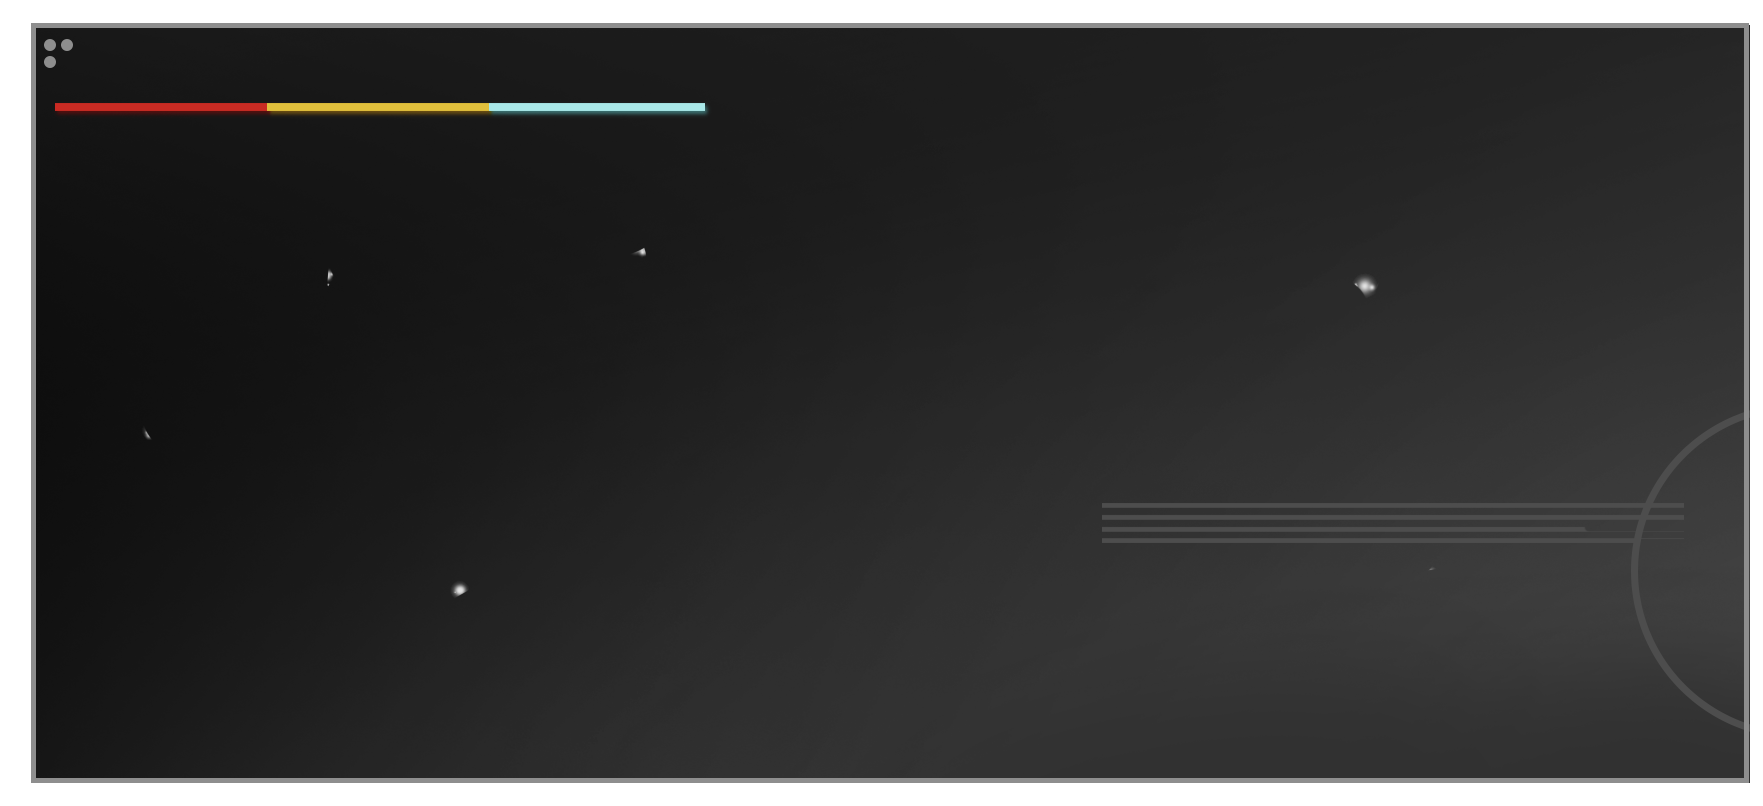
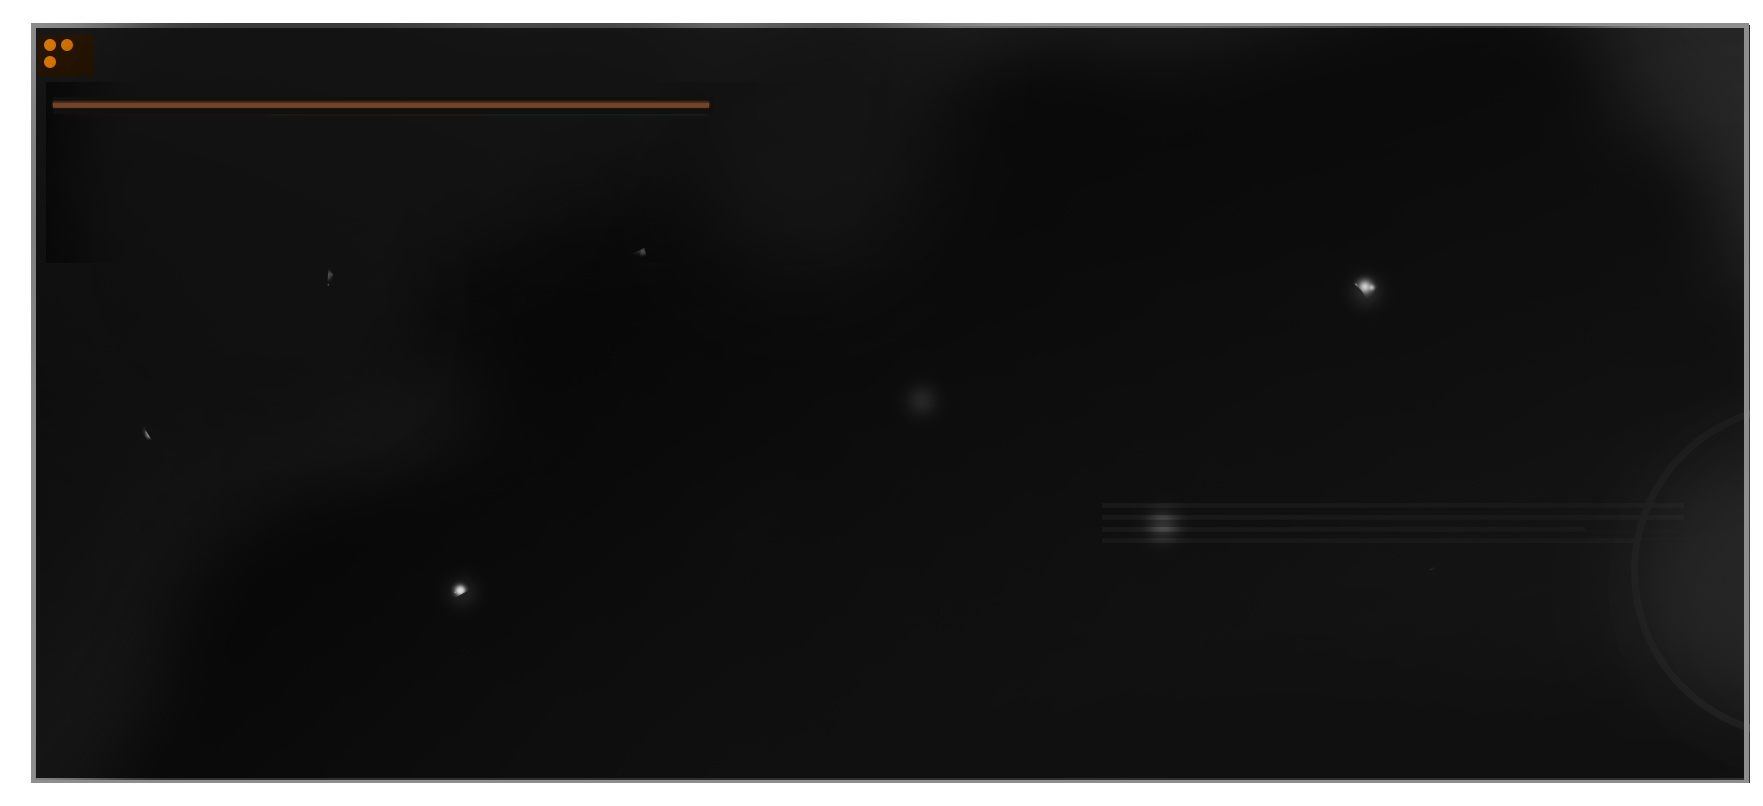
UI更新

diff --git a/src/main/java/rhinemod/patches/RhineUIPatch.java b/src/main/java/rhinemod/patches/RhineUIPatch.java
@@ -5,7 +5,6 @@ import com.badlogic.gdx.graphics.Color;
 import com.badlogic.gdx.graphics.Texture;
 import com.badlogic.gdx.graphics.g2d.SpriteBatch;
 import com.badlogic.gdx.graphics.g2d.TextureAtlas;
-import com.badlogic.gdx.math.MathUtils;
 import com.evacipated.cardcrawl.modthespire.lib.*;
 import com.megacrit.cardcrawl.cards.AbstractCard;
 import com.megacrit.cardcrawl.cards.CardGroup;
@@ -20,14 +19,18 @@ import com.megacrit.cardcrawl.helpers.Hitbox;
 import com.megacrit.cardcrawl.helpers.ImageMaster;
 import com.megacrit.cardcrawl.helpers.input.InputHelper;
 import com.megacrit.cardcrawl.map.DungeonMap;
+import com.megacrit.cardcrawl.map.LegendItem;
 import com.megacrit.cardcrawl.map.MapEdge;
 import com.megacrit.cardcrawl.map.MapRoomNode;
+import com.megacrit.cardcrawl.rewards.RewardItem;
 import com.megacrit.cardcrawl.rooms.AbstractRoom;
 import com.megacrit.cardcrawl.screens.*;
 import com.megacrit.cardcrawl.screens.mainMenu.MenuCancelButton;
 import com.megacrit.cardcrawl.screens.options.*;
 import com.megacrit.cardcrawl.ui.buttons.*;
 import com.megacrit.cardcrawl.ui.panels.*;
+import com.megacrit.cardcrawl.vfx.FlameAnimationEffect;
+import com.megacrit.cardcrawl.vfx.ObtainKeyEffect;
 import com.megacrit.cardcrawl.vfx.TintEffect;
 import javassist.CannotCompileException;
 import javassist.CtBehavior;
@@ -722,11 +725,12 @@ public class RhineUIPatch {
     @SpirePatch(clz = DungeonMap.class, method = "<ctor>")
     public static class DungeonMapPatch {
         @SpirePostfixPatch
-        public static void Postfix(DungeonMap _inst, @ByRef Texture[] ___top, @ByRef Texture[] ___mid, @ByRef Texture[] ___bot) {
+        public static void Postfix(DungeonMap _inst, @ByRef Texture[] ___top, @ByRef Texture[] ___mid, @ByRef Texture[] ___bot, @ByRef Texture[] ___blend) {
             if (RhineMod.useLoneTrail) {
                 ___top[0] = RhineImageMaster.mapTop;
                 ___mid[0] = RhineImageMaster.mapMid;
                 ___bot[0] = RhineImageMaster.mapBot;
+                ___blend[0] = RhineImageMaster.mapBlender;
             }
         }
     }
@@ -745,13 +749,14 @@ public class RhineUIPatch {
         @SpirePostfixPatch
         public static void Postfix(MapRoomNode _inst, int x, int y) {
             if (RhineMod.useLoneTrail) {
-                MapRoomNode.AVAILABLE_COLOR.r = 1.0F;
-                MapRoomNode.AVAILABLE_COLOR.g = 1.0F;
-                MapRoomNode.AVAILABLE_COLOR.b = 1.0F;
+                MapRoomNode.AVAILABLE_COLOR.r = 0.9F;
+                MapRoomNode.AVAILABLE_COLOR.g = 0.5F;
+                MapRoomNode.AVAILABLE_COLOR.b = 0.27F;
                 Color notTakenColor = ReflectionHacks.getPrivateStatic(MapRoomNode.class, "NOT_TAKEN_COLOR");
-                notTakenColor.r = 0.8F;
-                notTakenColor.g = 0.8F;
-                notTakenColor.b = 0.8F;
+                notTakenColor.r = 0.9F;
+                notTakenColor.g = 0.5F;
+                notTakenColor.b = 0.27F;
+                notTakenColor.a = 0.5F;
             }
         }
     }
@@ -811,6 +816,55 @@ public class RhineUIPatch {
             sb.draw(RhineImageMaster.mapDot, srcX - r, srcY + DungeonMapScreen.offsetY + OFFSET_Y, r, 0, width, width, 1, 1, angle - 270, 0, 0, 16, 16, false, false);
             sb.draw(RhineImageMaster.mapDot, dstX - r, dstY + DungeonMapScreen.offsetY + OFFSET_Y, r, 0, width, width, 1, 1, angle - 90, 0, 0, 16, 16, false, false);
             return SpireReturn.Return();
+        }
+    }
+
+    @SpirePatch(clz = RewardItem.class, method = SpirePatch.CONSTRUCTOR, paramtypez = {RewardItem.class, RewardItem.RewardType.class})
+    public static class RewardItemPatch {
+        public static int count = 0;
+        public static ExprEditor Instrument() {
+            return new ExprEditor() {
+                public void edit(MethodCall m) throws CannotCompileException {
+                    if (m.getClassName().equals(ImageMaster.class.getName()) && m.getMethodName().equals("loadImage")) {
+                        count++;
+                        if (count <= 2) {
+                            m.replace("if (" + RhineMod.class.getName() + ".useLoneTrail) { $1 = " + RhineImageMaster.class.getName() + ".blueKey; $_ = $proceed($$); } else { $proceed($$); }");
+                        } else {
+                            m.replace("if (" + RhineMod.class.getName() + ".useLoneTrail) { $1 = " + RhineImageMaster.class.getName() + ".greenKey; $_ = $proceed($$); } else { $proceed($$); }");
+                        }
+                    }
+                }
+            };
+        }
+    }
+
+    @SpirePatch(clz = ObtainKeyEffect.class, method = "update")
+    public static class ObtainKeyEffectPatch {
+        @SpirePrefixPatch
+        public static void Prefix(ObtainKeyEffect _inst) {
+            if (RhineMod.useLoneTrail) _inst.duration = 0.0F;
+        }
+    }
+
+    @SpirePatch(clz = FlameAnimationEffect.class, method = SpirePatch.CONSTRUCTOR)
+    public static class FlameAnimationEffectPatch {
+        @SpirePostfixPatch
+        public static void Postfix(FlameAnimationEffect _inst, Hitbox hb, @ByRef Color[] ___color) {
+            ___color[0] = new Color(0.9F, 0.5F, 0.27F, 1.0F);
+        }
+    }
+
+    @SpirePatch(clz = LegendItem.class, method = "render")
+    public static class LegendItemRenderPatch {
+        @SpirePrefixPatch
+        public static void Prefix(LegendItem _inst, SpriteBatch sb, Color c) {
+            if (RhineMod.useLoneTrail) {
+                if (!_inst.hb.hovered) {
+                    c.r = 0.09F;
+                    c.g = 0.13F;
+                    c.b = 0.17F;
+                }
+            }
         }
     }
 }

diff --git a/src/main/java/rhinemod/util/SettingConfig.java b/src/main/java/rhinemod/util/SettingConfig.java
@@ -30,11 +30,14 @@ public class SettingConfig {
     public static ModPanel panel;
     public static final String NEW_MONSTER_MULTI = "newMonsterMulti";
     public static final float[] values = new float[]{0.0F, 1.0F, 2.0F, 6.0F};
+    public static final String NEW_UI = "useNewUI";
     public static void init() {
         rhineModSettings.put(NEW_MONSTER_MULTI, String.valueOf(2));
+        rhineModSettings.put(NEW_UI, String.valueOf(1));
         try {
             config = new SpireConfig("rhinemod", "rhinemodConfig", rhineModSettings);
             RhineMod.newMonsterMulti = values[config.getInt(NEW_MONSTER_MULTI)];
+            RhineMod.useLoneTrail = config.getInt(NEW_UI) == 1;
         } catch (IOException e) {
             e.printStackTrace();
         }
@@ -116,6 +119,7 @@ public class SettingConfig {
     public static void initMenu() {
         panel = new ModPanel();
         UIStrings uiStrings = CardCrawlGame.languagePack.getUIString("rhinemod:Config");
+
         ModDropdownMenu modMenu = new ModDropdownMenu(
                 (i, s) -> {
                     RhineMod.newMonsterMulti = values[i];
@@ -126,9 +130,24 @@ public class SettingConfig {
                         e.printStackTrace();
                     }
                 },
-                new ArrayList<>(Arrays.asList(uiStrings.EXTRA_TEXT)), FontHelper.charDescFont, Settings.CREAM_COLOR, uiStrings.TEXT[0]);
+                new ArrayList<>(Arrays.asList(uiStrings.EXTRA_TEXT).subList(0, 4)), FontHelper.charDescFont, Settings.CREAM_COLOR, uiStrings.TEXT[0]);
         modMenu.menu.setSelectedIndex(config.getInt(NEW_MONSTER_MULTI));
         panel.addUIElement(modMenu);
+
+        ModDropdownMenu modMenu2 = new ModDropdownMenu(
+                (i, s) -> {
+                    RhineMod.useLoneTrail = i == 1;
+                    try {
+                        config.setInt(NEW_UI, i);
+                        config.save();
+                    } catch (IOException e) {
+                        e.printStackTrace();
+                    }
+                },
+                new ArrayList<>(Arrays.asList(uiStrings.EXTRA_TEXT).subList(4, 6)), FontHelper.charDescFont, Settings.CREAM_COLOR, uiStrings.TEXT[1]);
+        modMenu2.menu.setSelectedIndex(config.getInt(NEW_UI));
+        panel.addUIElement(modMenu2);
+
         Texture badge = ImageMaster.loadImage("resources/rhinemod/images/powers/BionicDevice 32.png");
         BaseMod.registerModBadge(badge, "rhinemod", "_noname512, absi2011", "Settings", panel);
     }

diff --git a/src/main/java/rhinemod/util/RhineImageMaster.java b/src/main/java/rhinemod/util/RhineImageMaster.java
@@ -128,6 +128,11 @@ public class RhineImageMaster {
     public static Texture mapSelectBox;
     public static Texture mapDot;
     public static Texture mapLine;
+    public static Texture mapBlender;
+    public static String blueKey = "resources/rhinemod/images/relics/blue_key.png";
+    public static String greenKey = "resources/rhinemod/images/relics/green_key.png";
+    public static String redKey = "resources/rhinemod/images/relics/red_key.png";
+
 
     public static void initialize() {
         cursor1 = ImageMaster.loadImage("resources/rhinemod/images/ui/cursors/gold2.png");
@@ -258,5 +263,6 @@ public class RhineImageMaster {
         mapLegend = ImageMaster.loadImage("resources/rhinemod/images/ui/map/legend2.png");
         mapDot = ImageMaster.loadImage("resources/rhinemod/images/ui/map/dot.png");
         mapLine = ImageMaster.loadImage("resources/rhinemod/images/ui/map/line.png");
+        mapBlender = ImageMaster.loadImage("resources/rhinemod/images/ui/map/mapBlend.png");
     }
 }
